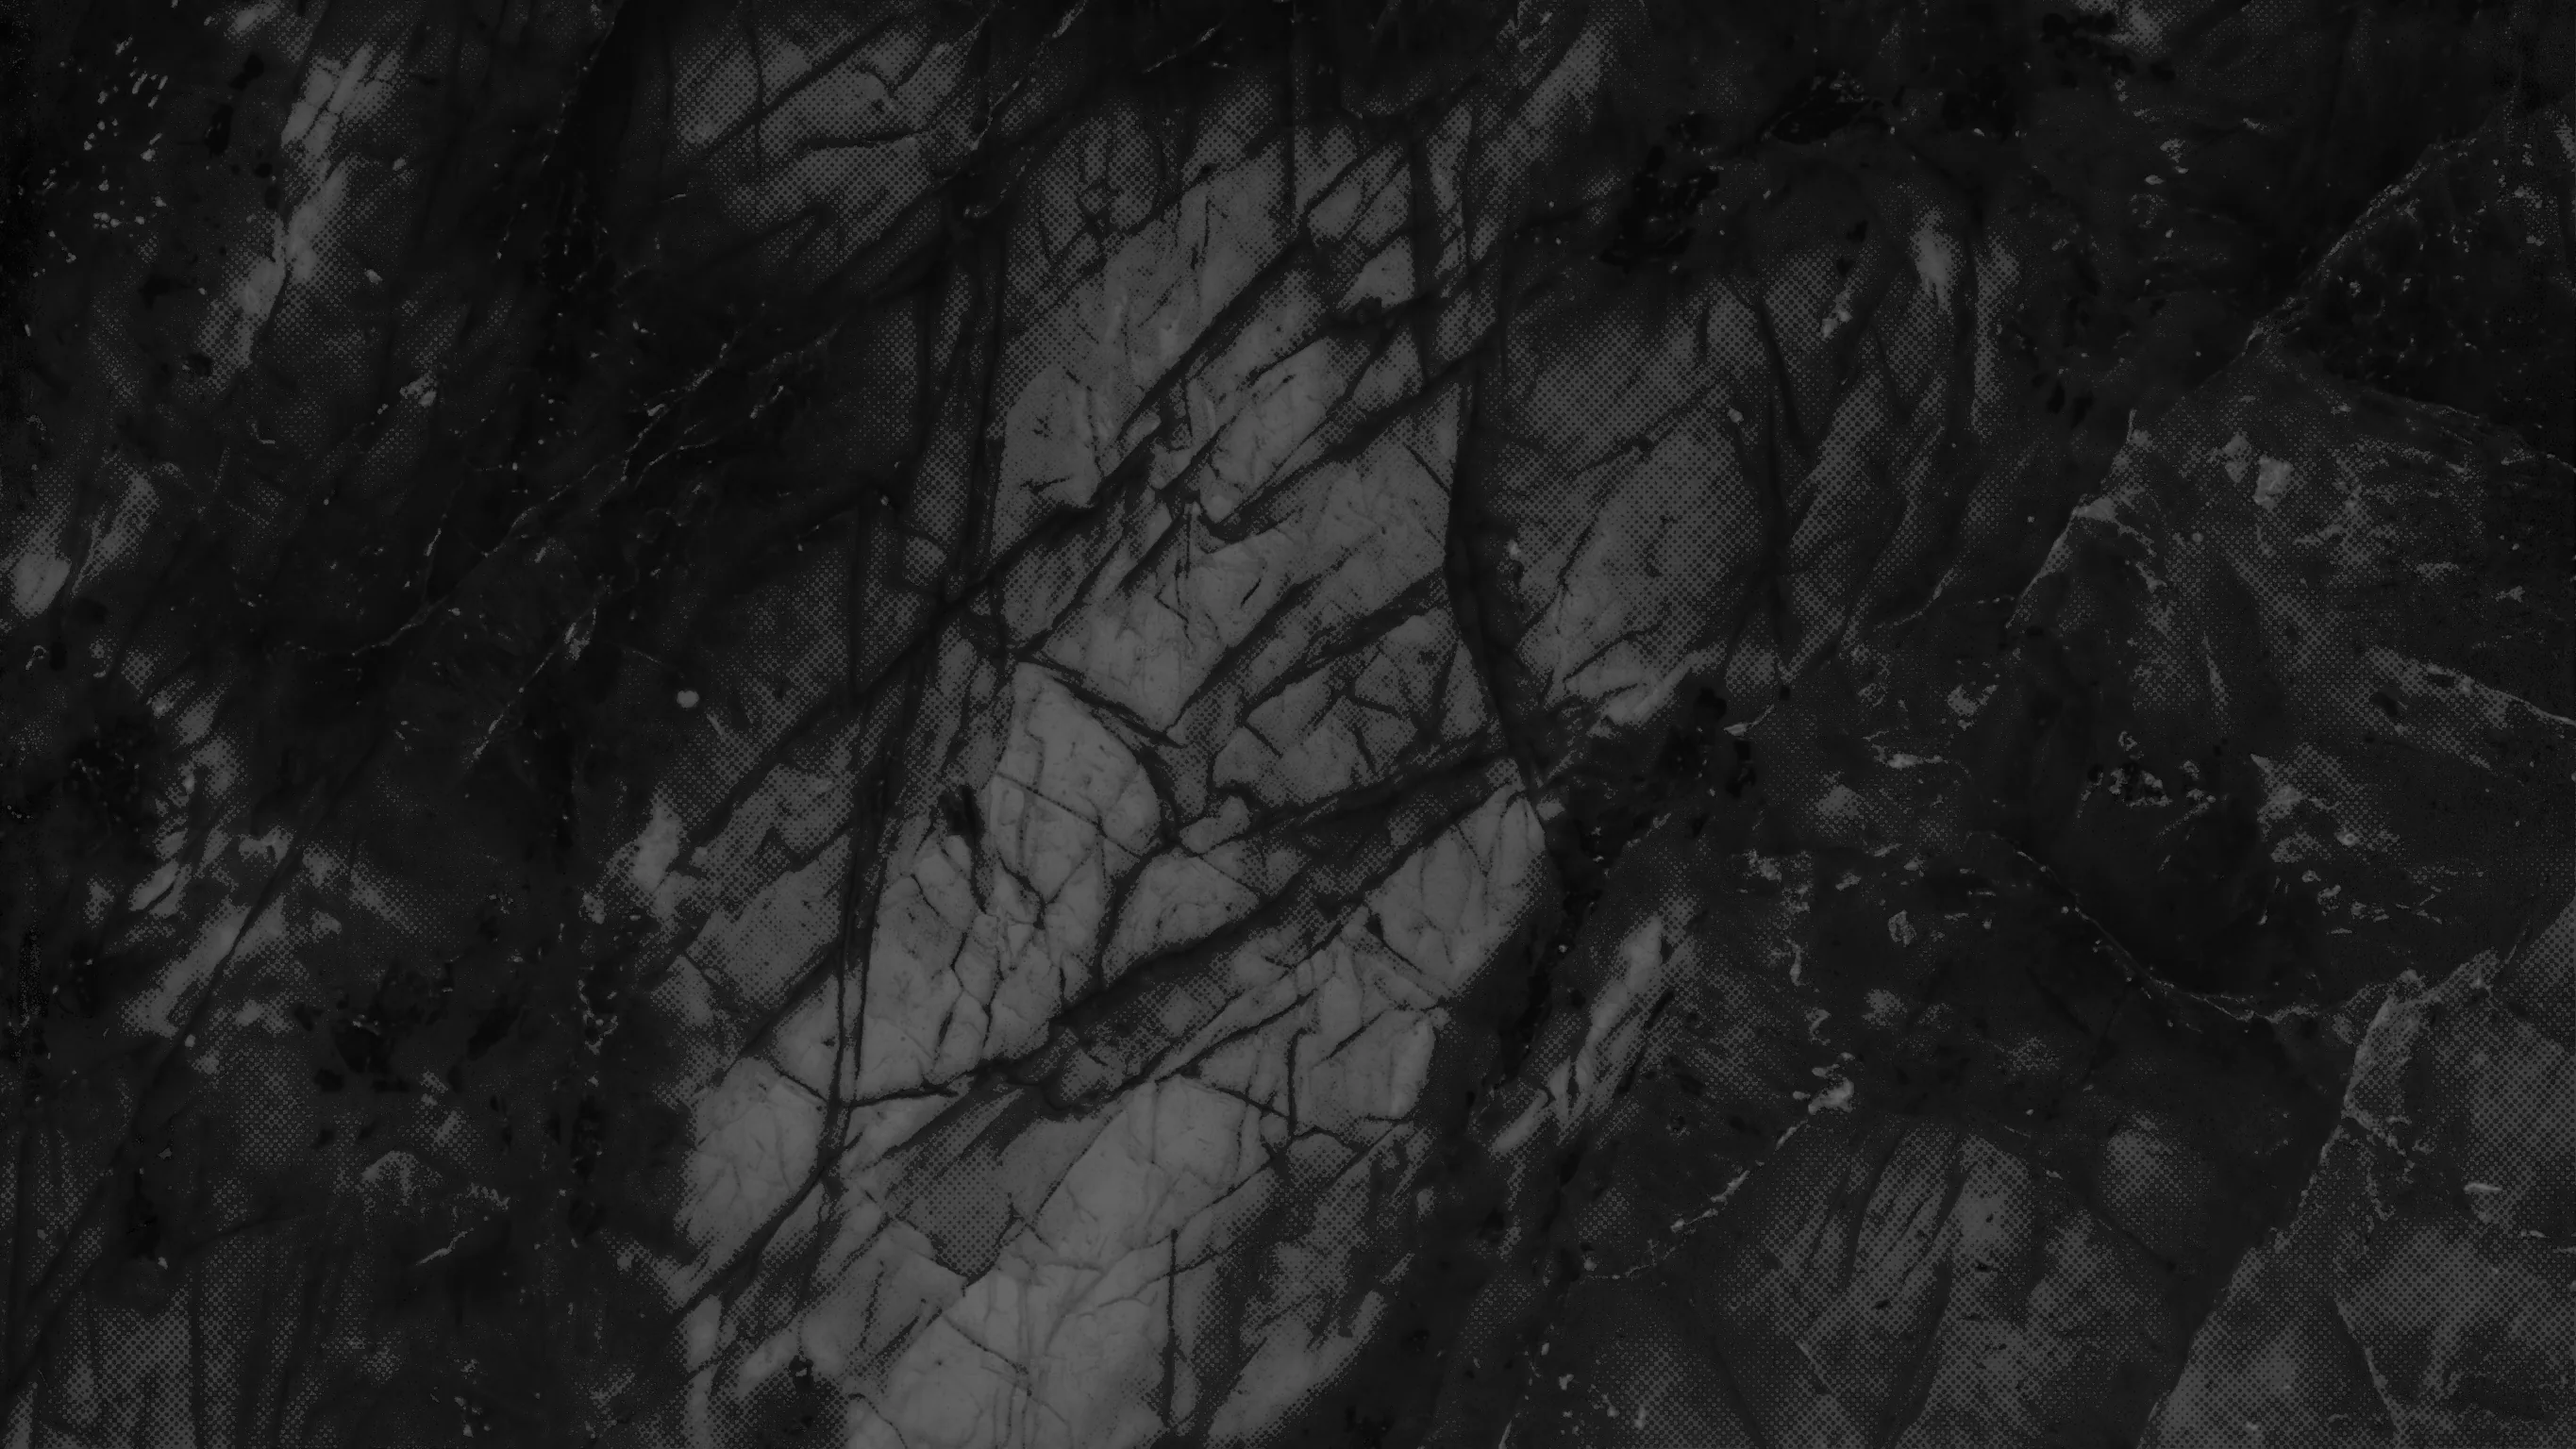
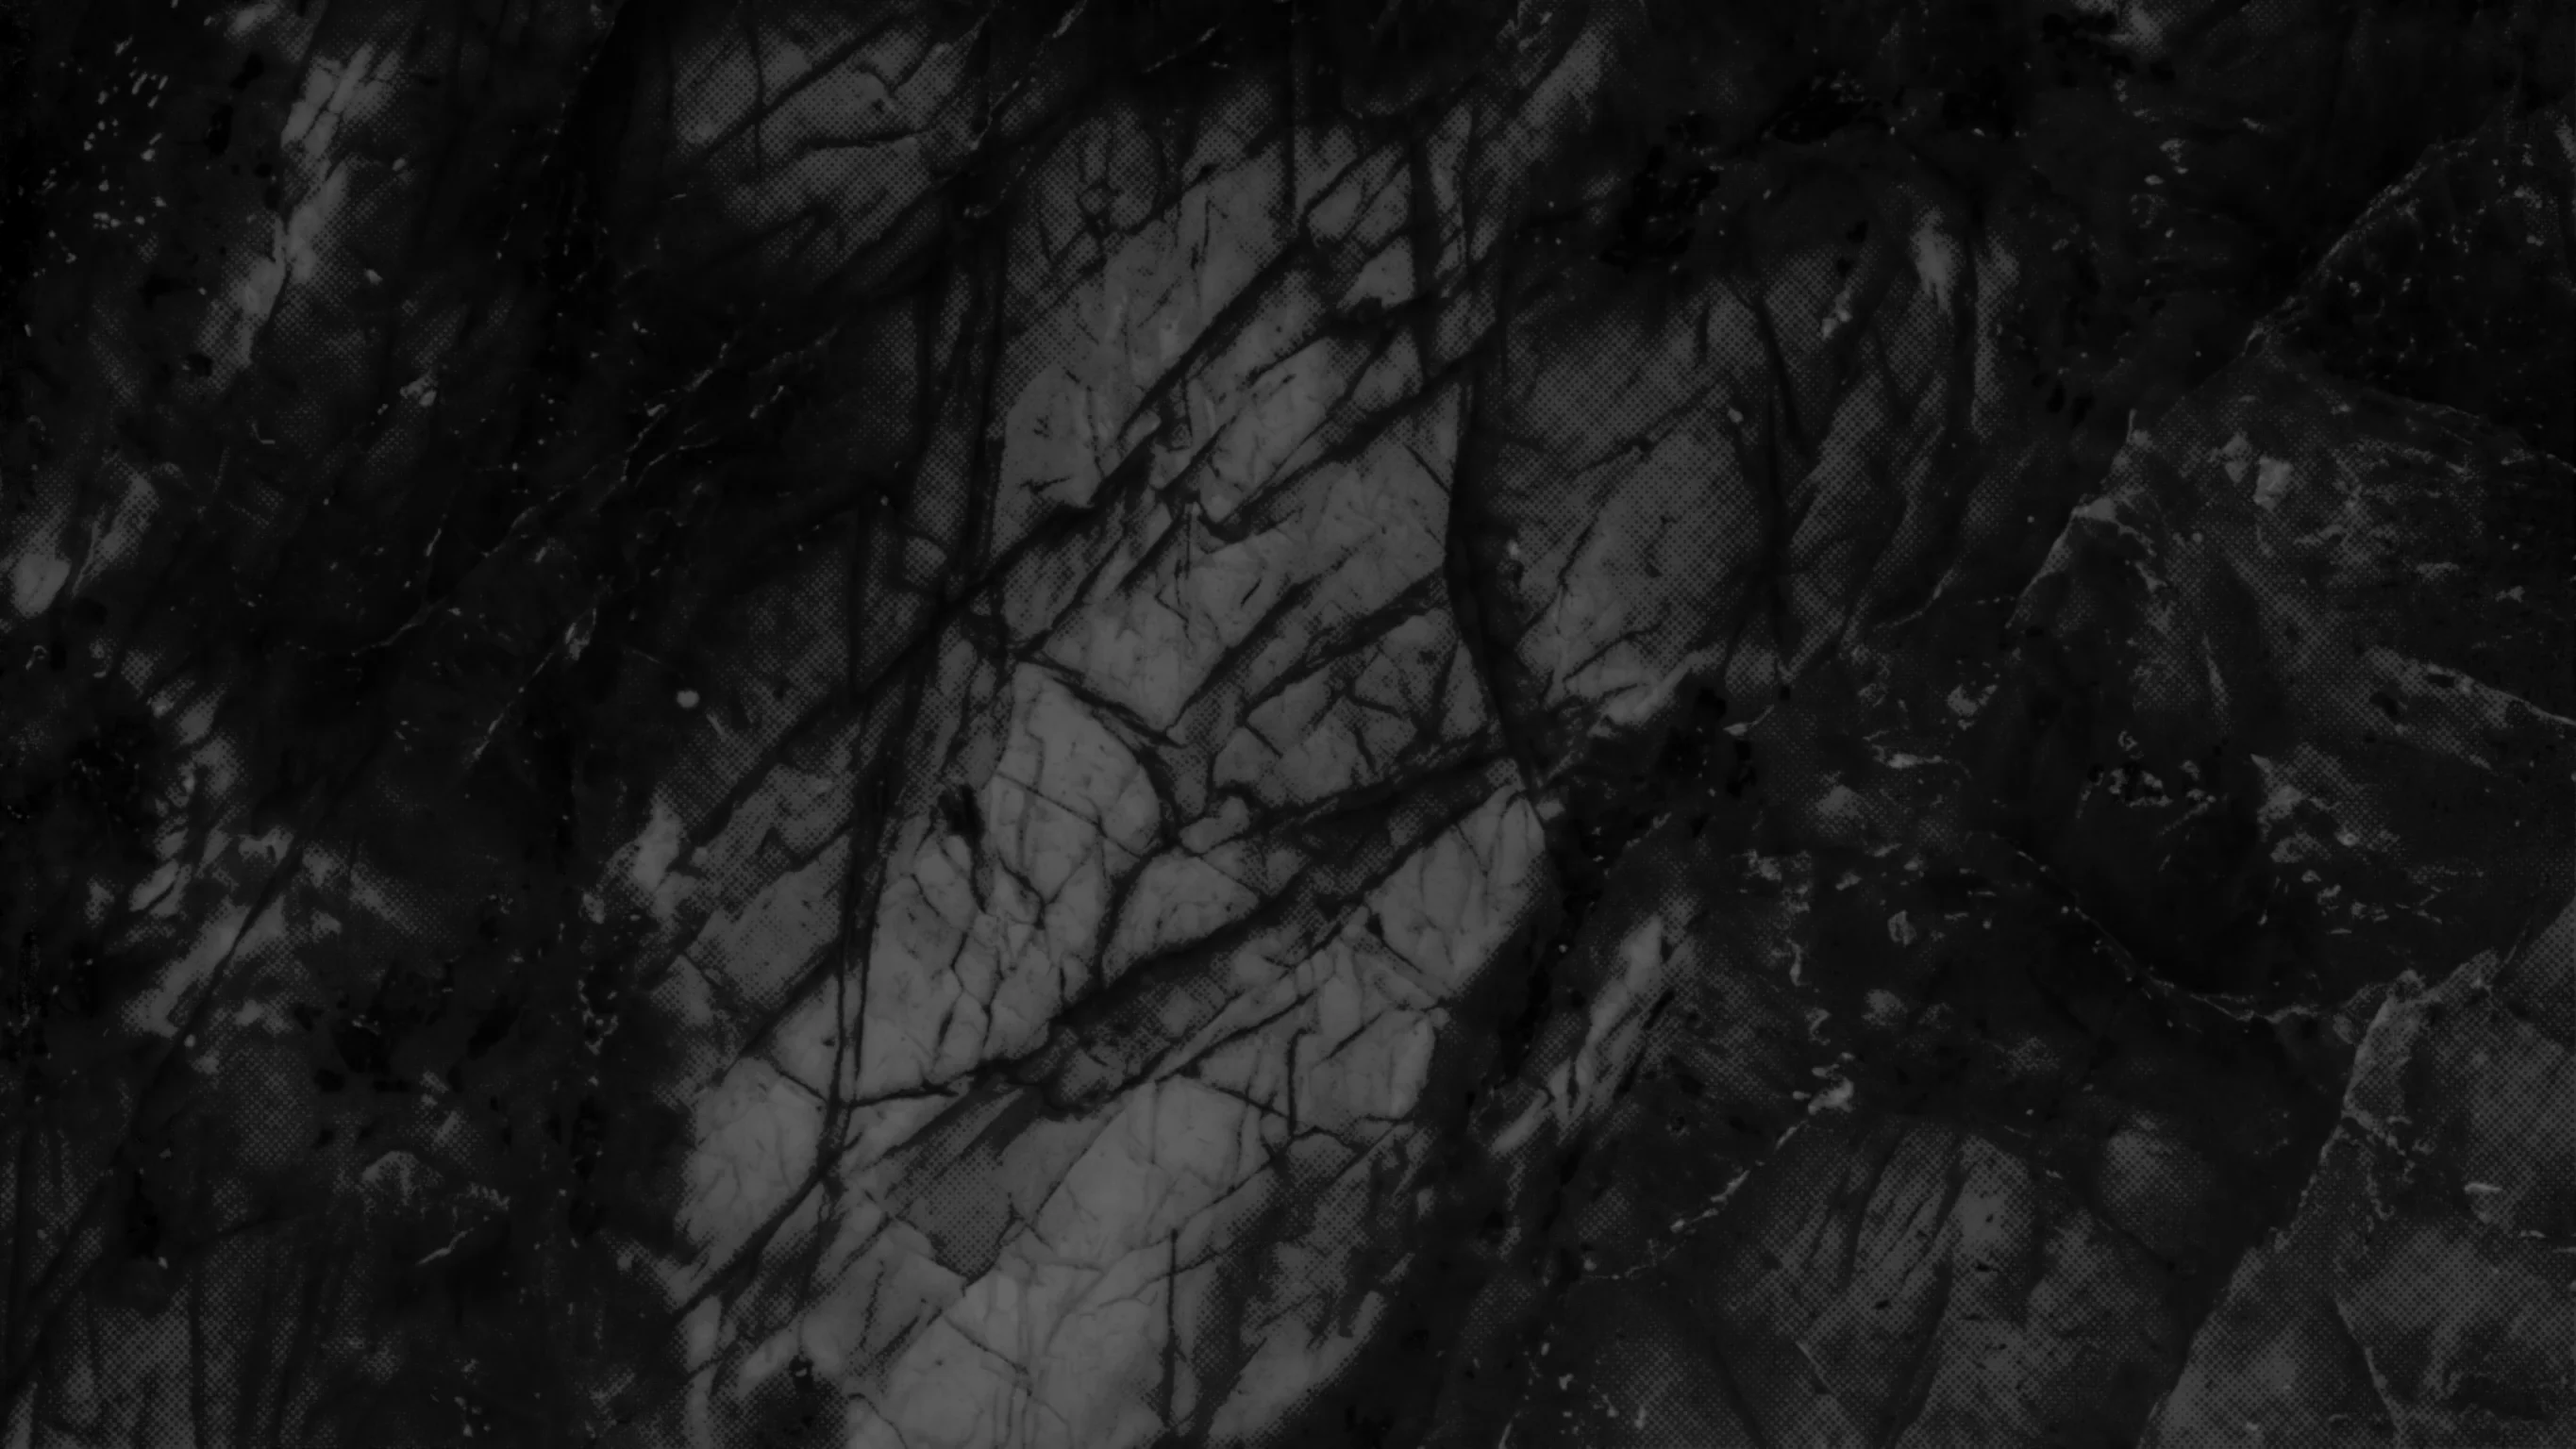
perf(landing): scope parallax writes to a leaf and pause offscreen marquee
- Replace .landing::before with a leaf .landing-bg div: the per-frame --bg-shift write restyles one node, not the page (scroll styleMs 3116 -> 109 ms, idle recalcs 726 -> 0)
- Pause the providers marquee via IntersectionObserver and cache the row width
- Drop .stage backdrop-filter and the hero blur(52px); bake contrast/blur into the ground webps (390 -> 218 KB)
- Verified: bun run check clean, bun run test 382/382, probe on preview:landing (3 runs)

diff --git a/src/lib/utils/marquee.ts b/src/lib/utils/marquee.ts
@@ -1,6 +1,6 @@
 // Infinite drag-and-hover marquee action for the provider rows (Settings About and the
 // landing page). Pass the viewport element; direction is +1 or -1. Reduced motion stops the
-// loop and leaves the row scrollable.
+// loop and leaves the row scrollable. The loop pauses while the viewport is offscreen.
 export function marquee(viewport: HTMLDivElement, direction: number) {
   const track = viewport.querySelector(".track");
   const row = viewport.querySelector(".provider-list");
@@ -20,11 +20,26 @@ export function marquee(viewport: HTMLDivElement, direction: number) {
   let previousX = 0;
   let moved = false;
   let frame = 0;
+  let visible = true;
+  let width = 0;
 
+  // The row width only changes on resize, so it is cached instead of read per frame.
+  function measure() {
+    width = rowElement.getBoundingClientRect().width;
+  }
   function updatePosition() {
-    const width = rowElement.getBoundingClientRect().width;
     if (width > 0) offset = ((offset % width) + width) % width;
     trackElement.style.transform = `translateX(${-offset}px)`;
+  }
+  // Offscreen viewports (the landing providers sit below the fold) must not run a rAF loop.
+  function start() {
+    if (frame || !visible || motion.matches) return;
+    last = 0;
+    frame = requestAnimationFrame(animate);
+  }
+  function stop() {
+    if (frame) cancelAnimationFrame(frame);
+    frame = 0;
   }
   function animate(time: number) {
     const elapsed = last ? Math.min(time - last, 100) : 0;
@@ -39,7 +54,7 @@ export function marquee(viewport: HTMLDivElement, direction: number) {
   }
   function syncMotion() {
     if (motion.matches) {
-      cancelAnimationFrame(frame);
+      stop();
       pointerId = null;
       offset = 0;
       speed = 0;
@@ -47,9 +62,22 @@ export function marquee(viewport: HTMLDivElement, direction: number) {
       updatePosition();
     } else {
       viewport.scrollLeft = 0;
-      frame = requestAnimationFrame(animate);
+      measure();
+      start();
     }
   }
+  const io =
+    "IntersectionObserver" in window
+      ? new IntersectionObserver((entries) => {
+          visible = entries.some((entry) => entry.isIntersecting);
+          if (visible) {
+            measure();
+            start();
+          } else {
+            stop();
+          }
+        })
+      : null;
   function pointerDown(event: PointerEvent) {
     if (motion.matches || !event.isPrimary || event.button !== 0) return;
     pointerId = event.pointerId;
@@ -97,11 +125,15 @@ export function marquee(viewport: HTMLDivElement, direction: number) {
   viewport.addEventListener("lostpointercapture", pointerEnd);
   viewport.addEventListener("focusin", focusIn);
   viewport.addEventListener("focusout", focusOut);
+  window.addEventListener("resize", measure);
+  io?.observe(viewport);
   motion.addEventListener("change", syncMotion);
   syncMotion();
   return {
     destroy() {
-      cancelAnimationFrame(frame);
+      stop();
+      io?.disconnect();
+      window.removeEventListener("resize", measure);
       motion.removeEventListener("change", syncMotion);
       viewport.removeEventListener("pointerenter", enter);
       viewport.removeEventListener("pointerleave", leave);

diff --git a/src/lib/components/landing/landing.css b/src/lib/components/landing/landing.css
@@ -49,27 +49,29 @@
   --ring: oklch(0.78 0 0);
 }
 
-/* ground: grayscale texture; air: film grain + vignette (fixed, behind content) */
-.landing::before,
+/* ground: grayscale texture as a real leaf element. The per-frame --bg-shift write from
+   hero.svelte must restyle one node, not the page, so a pseudo-element on the scrolling
+   root cannot carry it. The contrast/blur filters are baked into the webp assets.
+   air: film grain + vignette (fixed, behind content) */
 .landing::after {
   content: "";
   position: fixed;
   inset: 0;
   pointer-events: none;
 }
-.landing::before {
-  z-index: -2;
+.landing-bg {
+  position: fixed;
   inset: -15% 0; /* 130% of the viewport: 15% headroom per edge for the scroll drift */
+  z-index: -2;
+  pointer-events: none;
   background: url("/landing/bg-white.webp") center top / cover no-repeat;
   opacity: 0.28;
-  filter: contrast(1.08) blur(0.75px);
-  /* --bg-shift is written by hero.svelte from the .landing scroll position */
+  /* --bg-shift is written on this leaf by hero.svelte from the .landing scroll position */
   transform: translate3d(0, var(--bg-shift, 0px), 0) scale(1.03);
 }
-.dark .landing::before {
+.dark .landing-bg {
   background-image: url("/landing/bg-black.webp");
   opacity: 0.16;
-  filter: contrast(1.05) blur(0.75px);
 }
 .landing::after {
   z-index: -1;
@@ -235,8 +237,13 @@
   width: min(1060px, 100%);
   height: 660px;
   transform: translate(-50%, -50%);
-  background: radial-gradient(50% 50% at 50% 50%, oklch(0.95 0 0 / 0.19), transparent 72%);
-  filter: blur(52px);
+  /* the old blur(52px) re-rastered during scroll; the wider falloff does the softening */
+  background: radial-gradient(
+    58% 58% at 50% 50%,
+    oklch(0.95 0 0 / 0.15),
+    oklch(0.95 0 0 / 0.06) 55%,
+    transparent 100%
+  );
   pointer-events: none;
 }
 .landing .stage {
@@ -248,7 +255,6 @@
   border-radius: var(--radius);
   overflow: hidden;
   isolation: isolate;
-  backdrop-filter: blur(1px);
   background: radial-gradient(70% 60% at 50% 36%, oklch(0.95 0 0 / 0.2), transparent 74%);
   box-shadow: 0 24px 60px oklch(0.16 0 0 / 0.08);
 }

diff --git a/src/lib/components/landing/hero.svelte b/src/lib/components/landing/hero.svelte
@@ -162,9 +162,11 @@
   onMount(() => {
     highlights = "highlights" in CSS ? CSS.highlights : null;
 
-    // The landing root is the scroll container, not the window.
+    // The landing root is the scroll container, not the window. The shift lands on the
+    // leaf background div, so a per-frame write restyles one element, not the page.
     const scroller = stage.closest<HTMLElement>(".landing");
-    const cleanup = scroller ? groundParallax(scroller, scroller) : null;
+    const bg = scroller?.querySelector<HTMLElement>(".landing-bg");
+    const cleanup = scroller && bg ? groundParallax(scroller, bg) : null;
 
     if (!matchMedia("(prefers-reduced-motion: reduce)").matches) run();
 

diff --git a/src/routes/+layout.svelte b/src/routes/+layout.svelte
@@ -265,6 +265,7 @@
 {#if isWeb}
   <ModeWatcher defaultMode="dark" />
   <div class="landing h-screen overflow-x-auto overflow-y-auto" dir="ltr">
+    <div class="landing-bg" aria-hidden="true"></div>
     <div class="wrap">
       <header class="top">
         <a class="brand" href="/">
